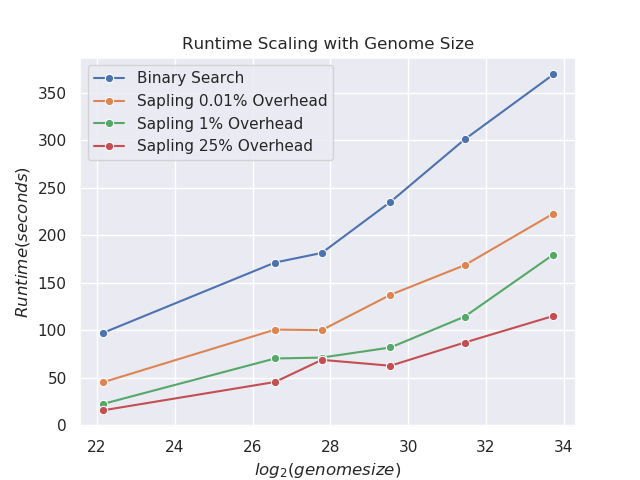
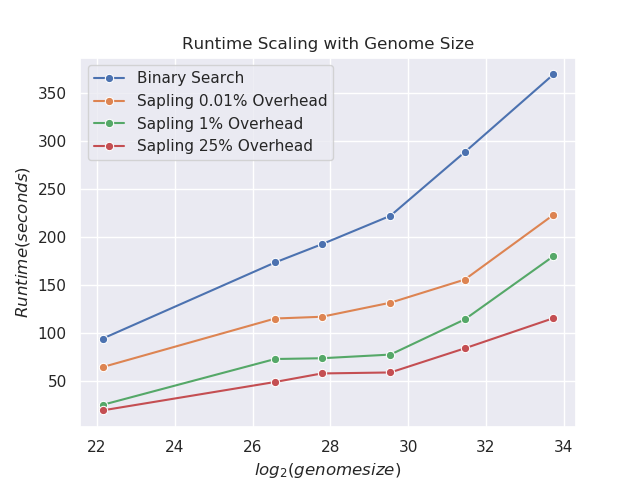
Updated plots with new runtime results

diff --git a/eval/TimingPlot/plot.py b/eval/TimingPlot/plot.py
@@ -17,11 +17,11 @@ xs = [4641652, 100286401, 230481012, 782475302, 2934876451, 14271578887]
 logxs = [math.log(i, 2) for i in xs]
 
 # Runtimes
-sapling00001 = [45.2589, 100.803, 100.316, 137.476, 168.62, 222.989]
-saplingOnePercent = [22.4503, 70.4513, 71.3830, 82.0073, 114.502, 179.87]
-#saplingTenPercent = [16.4947, 62.9823, 55.3909, 94.6657, 135.960, 123.117]
-saplingTwentyfivePercent = [15.7859, 45.6998, 69.0131, 62.7804, 87.2305, 115.208]
-binSearch = [97.197, 171.466, 181.537, 235.254, 301.056, 369.465]
+sapling00001 = [64.1779, 114.843, 116.667, 131.352, 155.422, 222.989]
+saplingOnePercent = [24.7783, 72.6055, 73.4093, 77.2295, 113.859, 179.87]
+#saplingTenPercent = [19.5705,53.525, 60.0477, 60.2346, 91.2241, 123.117]
+saplingTwentyfivePercent = [19.007, 48.6434, 57.5504, 58.5787, 83.7056, 115.208]
+binSearch = [93.8439, 173.31, 192.317, 222.014, 288.3, 369.465]
 runtimeNames = ['Binary Search', 'Sapling 0.01% Overhead', 'Sapling 1% Overhead', 'Sapling 25% Overhead']
 
 sns.lineplot(logxs, binSearch, marker = "o")

diff --git a/eval/TimingPlot/multitoolplot.py b/eval/TimingPlot/multitoolplot.py
@@ -17,14 +17,14 @@ pal = sns.color_palette()
 logxs = [i for i in range(6, 30)]
 
 # Runtimes
-saplingRuntimes = [291.782, 277.642 , 261.552, 251.606, 244.442, 252.177, 251.159, 190.957, 209.15, 183.053,
-203.781, 167.8, 168.62, 159.528, 152.803, 131.041, 119.709, 142.572, 114.502, 133.928, 137.158, 114.152, 
-135.96, 87.2305]
+saplingRuntimes = [272.504, 271.494, 283.534, 195.717, 213.098, 199.751, 193.502, 190.024, 178.008,
+  208.957, 193.096, 193.263, 155.422, 152.319, 132.068, 162.492, 120.197, 116.291, 113.859, 106.215,
+99.927, 89.7132, 91.2241, 83.7056]
 runtimeNames = ['Bowtie', 'Mummer', 'Binary Search', 'Sapling']
 
-bowtieTime = 564
-mummerTime = 396.905
-binarySearchTime = 301.056
+bowtieTime = 558
+mummerTime = 360.728
+binarySearchTime = 288.3
 
 current_palette = sns.color_palette()
 
